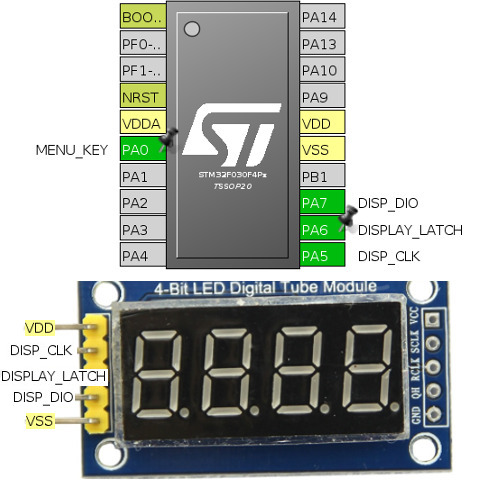
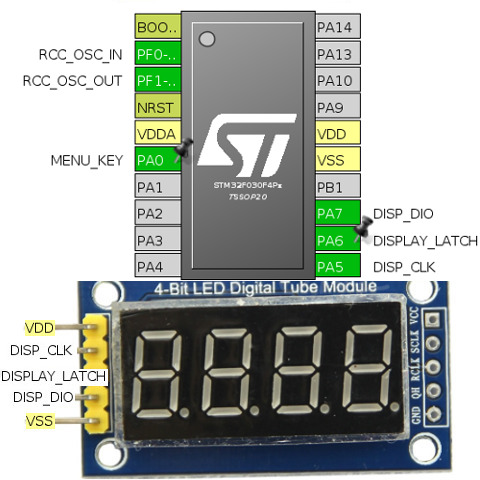
enabled hse 8MHZ crystal clock

Changed region(s): [[0.0312, 0.0, 1.0, 0.5938]]

diff --git a/stm32/clock/eclipse/src/stm32f0xx_it.c b/stm32/clock/eclipse/src/stm32f0xx_it.c
@@ -46,6 +46,20 @@
 /******************************************************************************/
 
 /**
+* @brief This function handles Non maskable interrupt.
+*/
+void NMI_Handler(void)
+{
+  /* USER CODE BEGIN NonMaskableInt_IRQn 0 */
+
+  /* USER CODE END NonMaskableInt_IRQn 0 */
+  HAL_RCC_NMI_IRQHandler();
+  /* USER CODE BEGIN NonMaskableInt_IRQn 1 */
+
+  /* USER CODE END NonMaskableInt_IRQn 1 */
+}
+
+/**
 * @brief This function handles System tick timer.
 */
 void SysTick_Handler(void)

diff --git a/stm32/clock/eclipse/src/gpio.c b/stm32/clock/eclipse/src/gpio.c
@@ -64,12 +64,6 @@ void MX_GPIO_Init(void)
   __GPIOA_CLK_ENABLE();
   __GPIOB_CLK_ENABLE();
 
-  /*Configure GPIO pins : PF0 PF1 */
-  GPIO_InitStruct.Pin = GPIO_PIN_0|GPIO_PIN_1;
-  GPIO_InitStruct.Mode = GPIO_MODE_ANALOG;
-  GPIO_InitStruct.Pull = GPIO_NOPULL;
-  HAL_GPIO_Init(GPIOF, &GPIO_InitStruct);
-
   /*Configure GPIO pin : PtPin */
   GPIO_InitStruct.Pin = MENU_KEY_Pin;
   GPIO_InitStruct.Mode = GPIO_MODE_IT_FALLING;

diff --git a/stm32/clock/eclipse/include/stm32f0xx_it.h b/stm32/clock/eclipse/include/stm32f0xx_it.h
@@ -45,6 +45,7 @@
 /* Exported macro ------------------------------------------------------------*/
 /* Exported functions ------------------------------------------------------- */
 
+void NMI_Handler(void);
 void SysTick_Handler(void);
 void EXTI0_1_IRQHandler(void);
 
